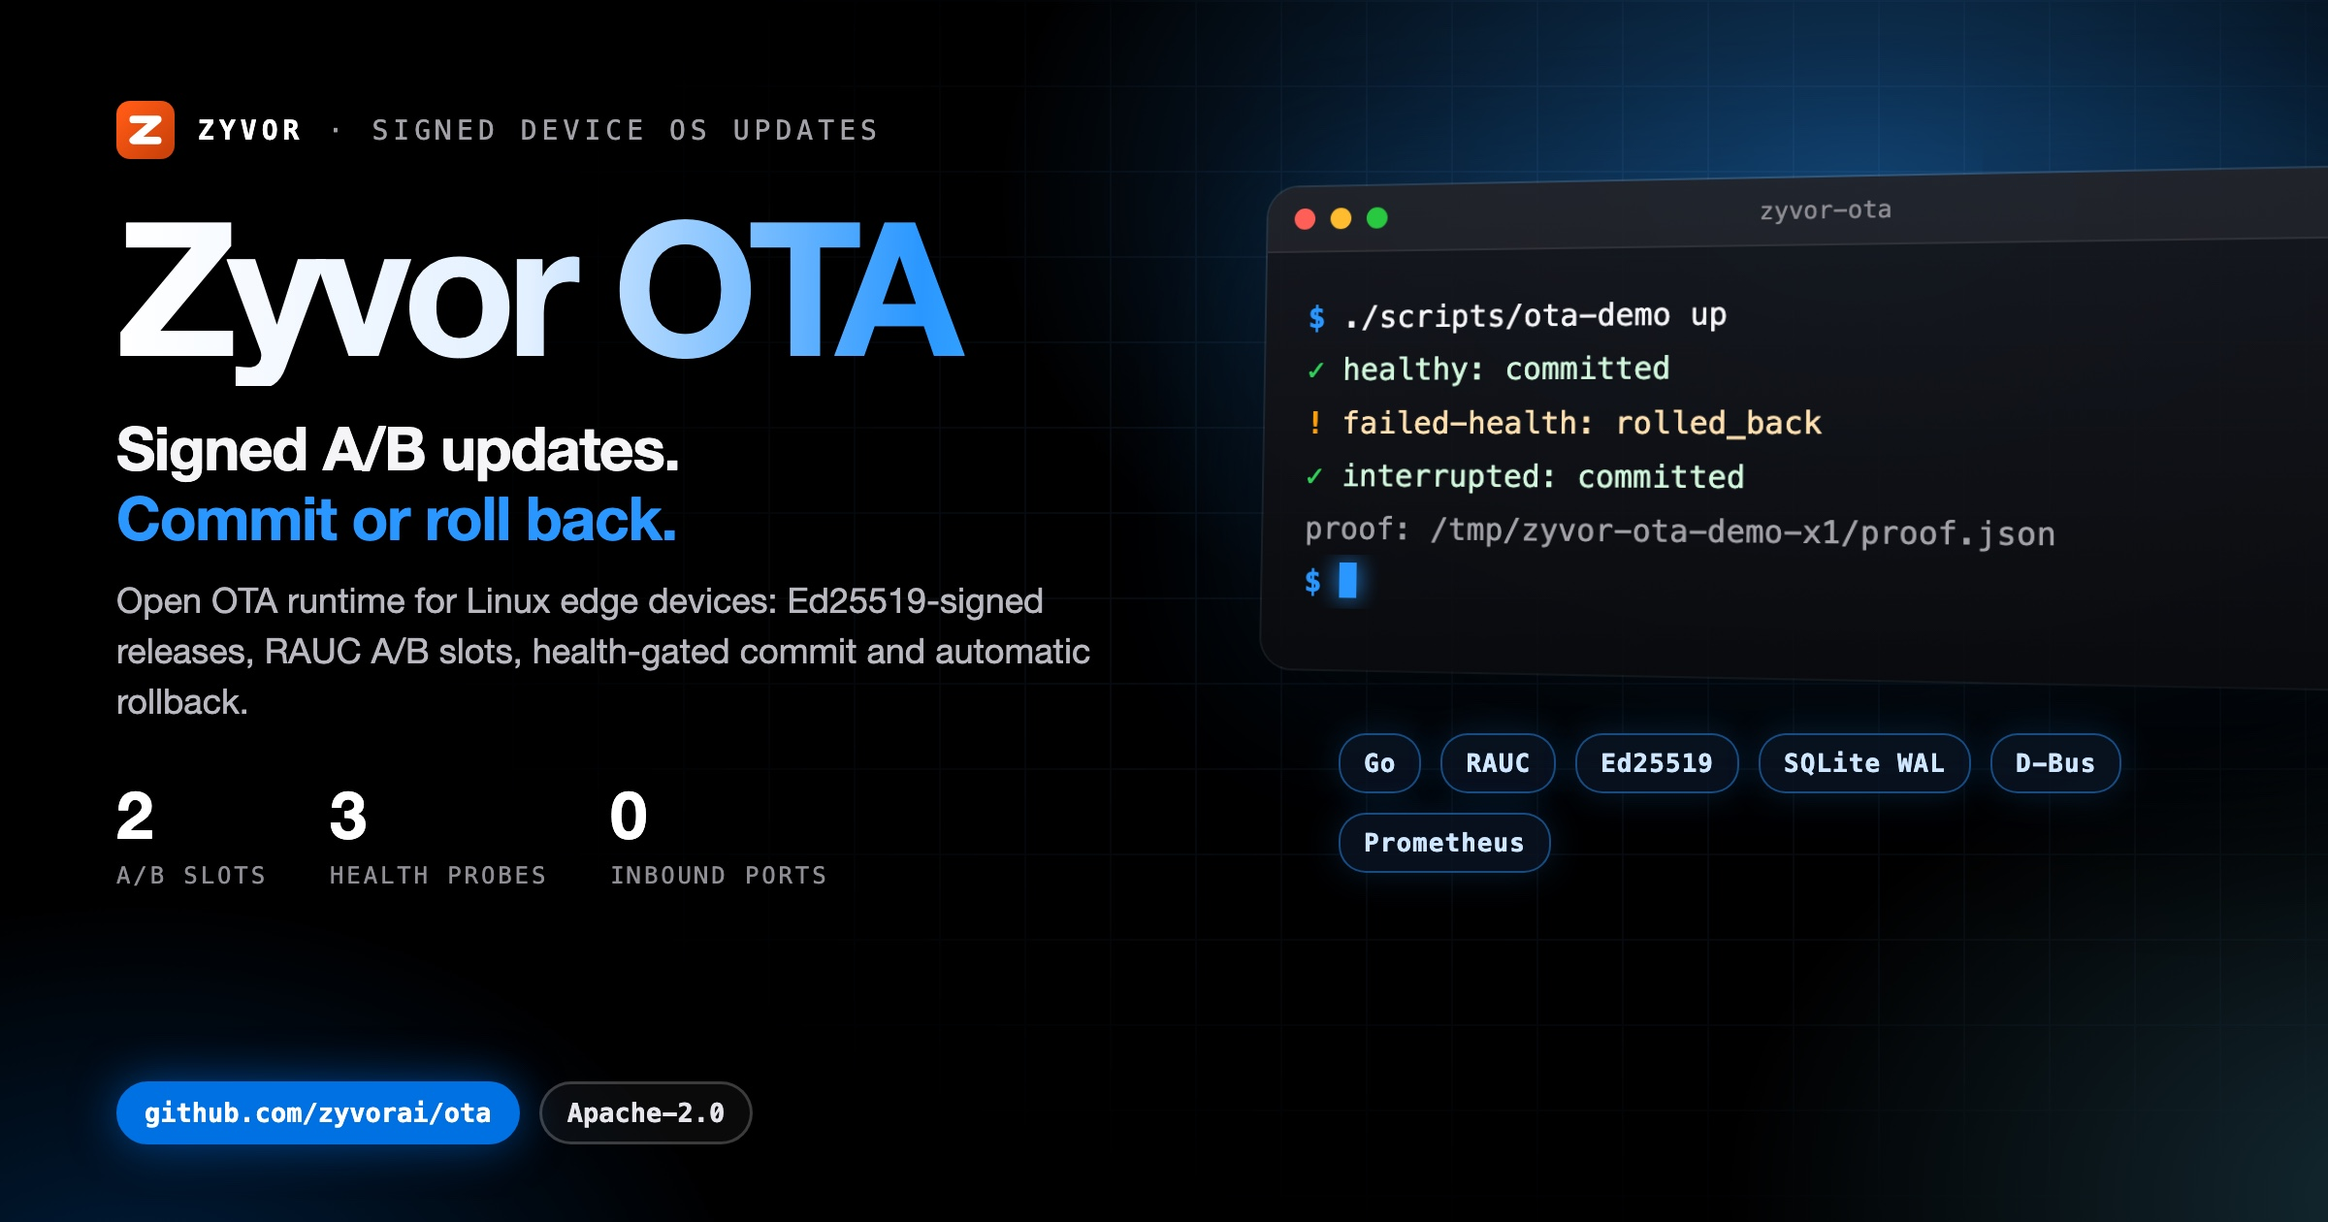
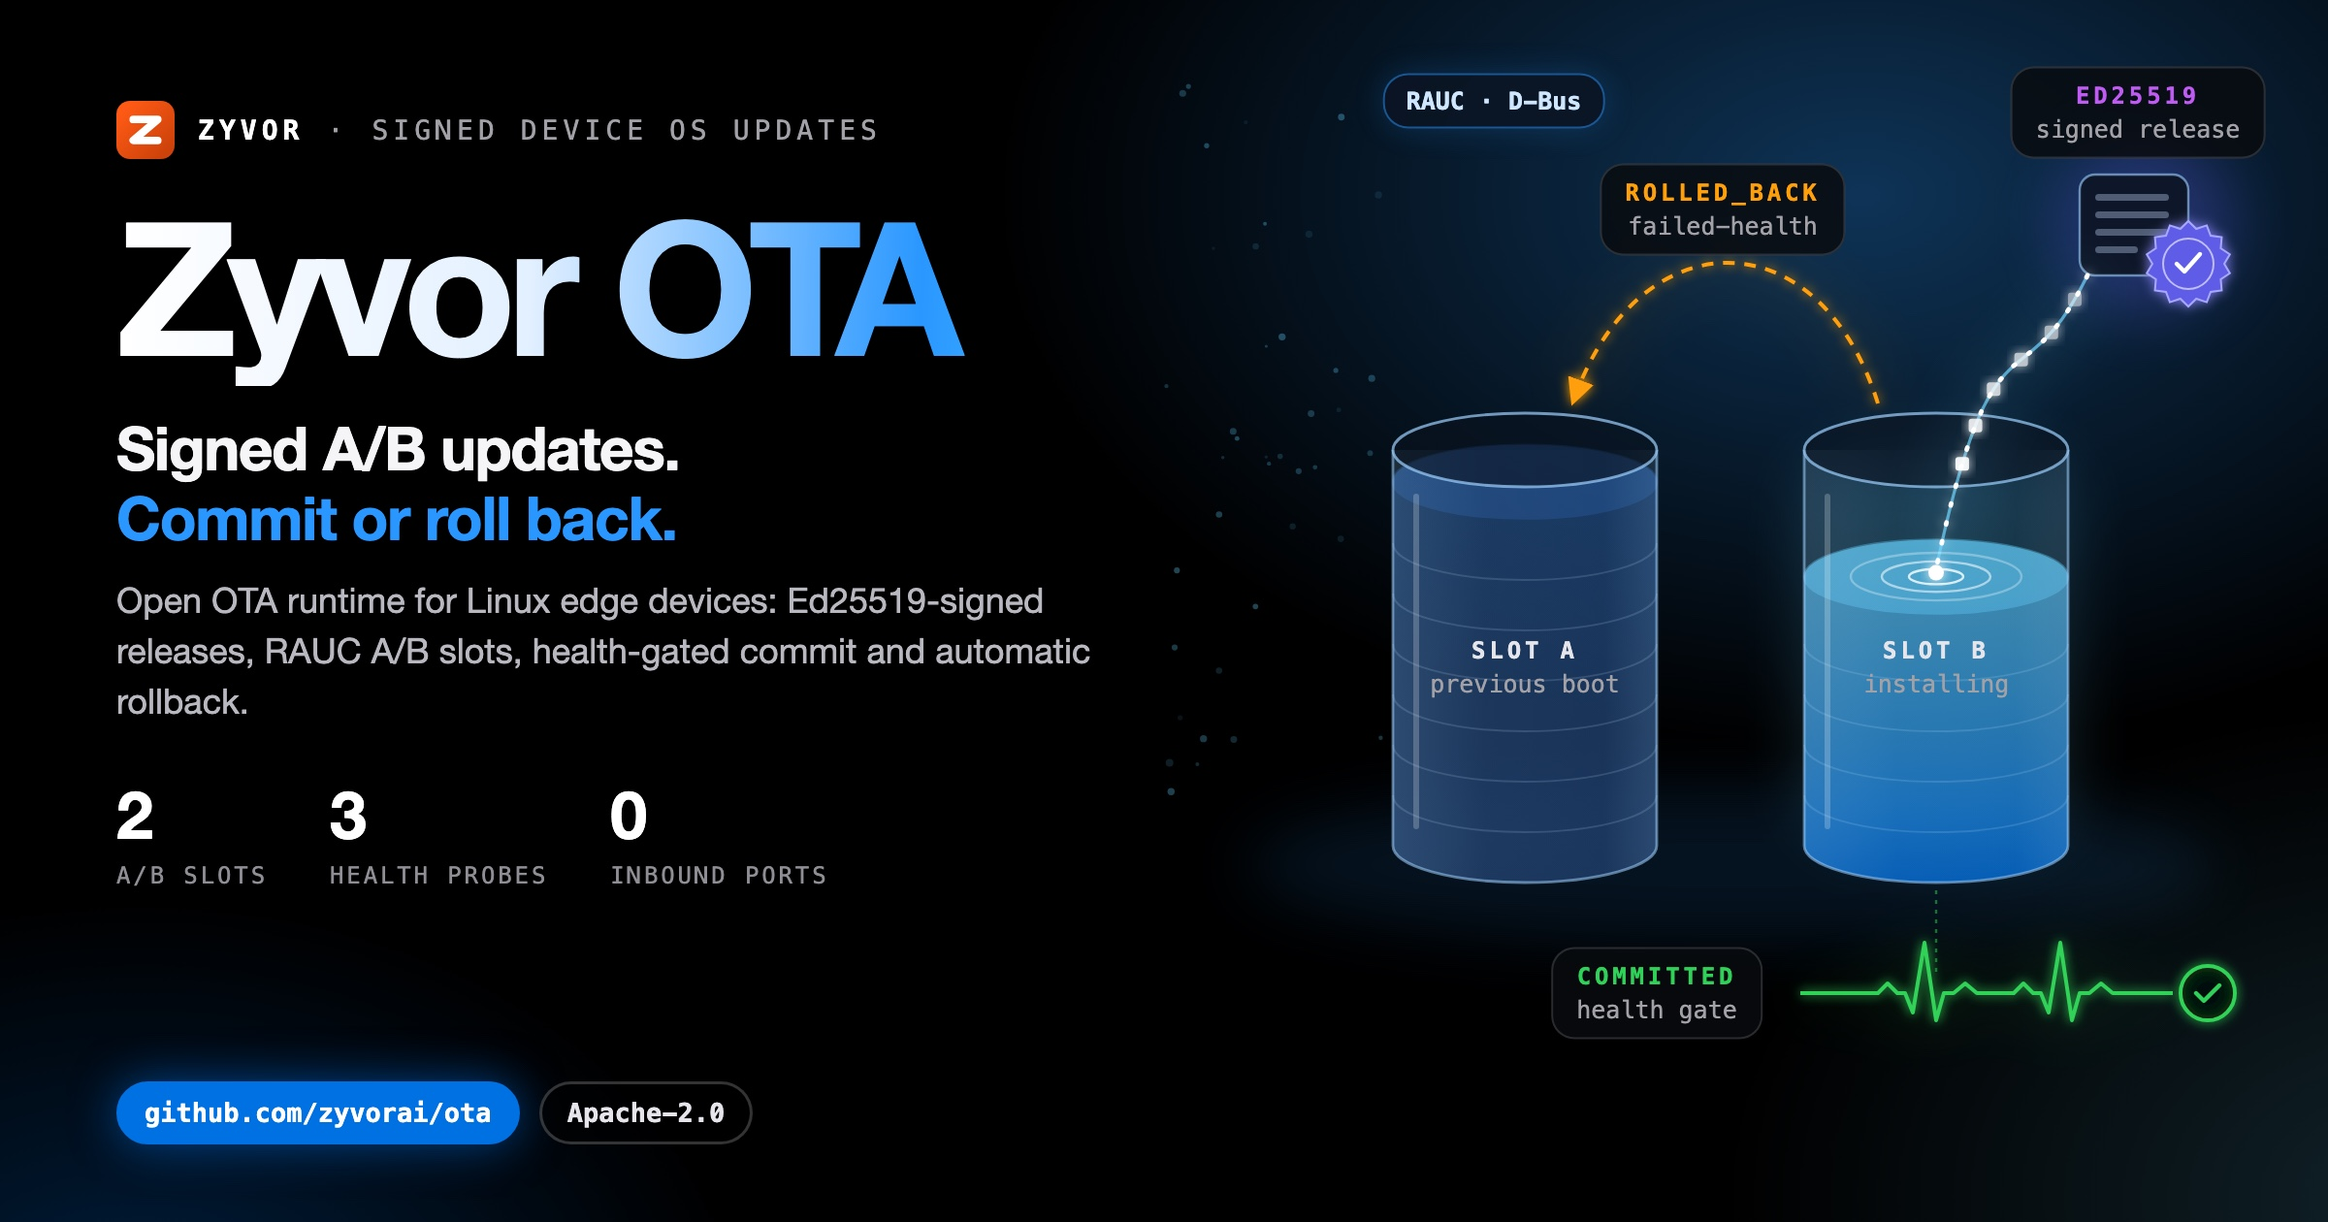
docs(social): unique illustrated hero card
Replace the shared terminal-window art with a motif drawn for this project;
same verified copy and stats on the left.

Changed region(s): [[0.5312, 0.031, 1.0, 0.8357]]

diff --git a/docs/social/ota-hero-dark.html b/docs/social/ota-hero-dark.html
@@ -8,58 +8,47 @@
   Build: ./docs/social/build-hero-dark.sh  ->  ota-hero-dark.jpg (2400x1260)
 -->
 <style>
-  :root { --blue:#0071e3; --signal:#2997ff; --cyan:#64d2ff; --green:#30d158; --amber:#ff9f0a;
+  :root { --blue:#0071e3; --signal:#2997ff; --cyan:#64d2ff; --green:#30d158; --amber:#ff9f0a; --red:#ff453a; --violet:#bf5af2;
     --sans:'SF Pro Display','Helvetica Neue',Helvetica,Arial,sans-serif; --mono:'SF Mono',Menlo,Consolas,monospace; }
   * { box-sizing:border-box; }
   html,body { margin:0; padding:0; }
   body { width:1200px; height:630px; overflow:hidden; color:#f5f5f7; font-family:var(--sans); position:relative; background:#000; }
   .aurora { position:absolute; inset:0;
-    background:radial-gradient(720px 460px at 80% 16%, rgba(41,151,255,.40), transparent 62%),
-               radial-gradient(600px 420px at 104% 98%, rgba(100,210,255,.20), transparent 60%),
+    background:radial-gradient(720px 460px at 80% 16%, rgba(41,151,255,.34), transparent 62%),
+               radial-gradient(600px 420px at 104% 98%, rgba(100,210,255,.16), transparent 60%),
                radial-gradient(520px 380px at 6% 110%, rgba(0,113,227,.28), transparent 60%); }
-  .grid { position:absolute; inset:0; opacity:.09;
-    background-image:linear-gradient(rgba(120,180,255,.9) 1px,transparent 1px),linear-gradient(90deg,rgba(120,180,255,.9) 1px,transparent 1px);
-    background-size:44px 44px; -webkit-mask-image:radial-gradient(900px 520px at 72% 42%, #000 18%, transparent 75%); }
-  .left { position:absolute; left:60px; top:52px; width:560px; z-index:3; }
+  .copy { position:absolute; left:60px; top:52px; width:560px; z-index:3; }
   .brand { display:flex; align-items:center; gap:12px; font-family:var(--mono); font-size:14px; letter-spacing:.18em; text-transform:uppercase; color:#a1a1a6; }
   .brand b { color:#fff; }
   .word { margin:20px 0 0; font-size:96px; line-height:.95; font-weight:800; letter-spacing:-.05em; white-space:nowrap;
     background:linear-gradient(92deg,#fff 0%,#e3f0ff 38%,var(--signal) 74%,var(--cyan) 100%); -webkit-background-clip:text; background-clip:text; color:transparent; padding-bottom:6px; }
   .tag { margin:14px 0 0; font-size:31px; line-height:1.15; font-weight:700; letter-spacing:-.02em; }
   .tag em { font-style:normal; color:var(--signal); }
-  .lede { margin:12px 0 0; font-size:18px; line-height:1.45; color:#b8b8bf; width:520px; }
+  .lede { margin:12px 0 0; font-size:18px; line-height:1.45; color:#b8b8bf; width:520px; text-shadow:0 1px 12px #000; }
   .stats { margin-top:24px; display:flex; gap:32px; }
   .stat b { display:block; font-size:34px; font-weight:800; letter-spacing:-.03em; color:#fff; }
   .stat span { font-family:var(--mono); font-size:12px; letter-spacing:.12em; text-transform:uppercase; color:#8e8e93; }
   .pill { position:absolute; left:60px; bottom:40px; display:flex; gap:10px; z-index:3; }
-  .pill span { font-family:var(--mono); font-size:13.5px; font-weight:700; padding:7px 13px; border-radius:18px; border:1.5px solid rgba(255,255,255,.2); color:#e5e5ea; background:rgba(255,255,255,.04); }
+  .pill span { font-family:var(--mono); font-size:13.5px; font-weight:700; padding:7px 13px; border-radius:18px; border:1.5px solid rgba(255,255,255,.2); color:#e5e5ea; background:rgba(0,0,0,.6); }
   .pill span.b { background:var(--blue); border-color:var(--blue); color:#fff; box-shadow:0 0 24px rgba(0,113,227,.55); }
-
-  .right { position:absolute; left:652px; top:96px; width:560px; z-index:2; }
-  .win { position:relative; width:560px; border-radius:16px; overflow:hidden; z-index:2;
-    background:linear-gradient(180deg, rgba(22,24,30,.94), rgba(10,11,14,.96));
-    box-shadow:0 50px 100px rgba(0,0,0,.75), 0 0 0 1px rgba(255,255,255,.14), 0 0 90px rgba(41,151,255,.22);
-    transform:perspective(1600px) rotateY(-14deg) rotateX(4deg); transform-origin:left center; }
-  .bar { height:34px; display:flex; align-items:center; gap:8px; padding:0 14px; background:rgba(255,255,255,.05); border-bottom:1px solid rgba(255,255,255,.07); }
-  .bar i { width:11px; height:11px; border-radius:50%; background:#ff5f57; } .bar i:nth-child(2){background:#febc2e} .bar i:nth-child(3){background:#28c840}
-  .bar em { margin-left:auto; margin-right:auto; font-style:normal; font-family:var(--mono); font-size:12px; color:#8e8e93; transform:translateX(-24px); }
-  .term { min-height:214px; padding:20px 22px 24px; font-family:var(--mono); font-size:15.5px; line-height:1.75; }
-  .l { white-space:pre; overflow:hidden; text-overflow:ellipsis; color:#f5f5f7; }
-  .l .p { color:var(--signal); font-weight:700; }
-  .l.out { color:#a1a1a6; }
-  .l.cm { color:#6e6e73; }
-  .l.ok { color:#d1f7dc; } .l.ok span { color:var(--green); font-weight:700; }
-  .l.warn { color:#ffe1b0; } .l.warn span { color:var(--amber); font-weight:700; }
-  .cur { display:inline-block; width:9px; height:18px; background:var(--signal); vertical-align:-3px; box-shadow:0 0 12px var(--signal); }
-  .chips { margin:34px 0 0 38px; width:480px; display:flex; flex-wrap:wrap; gap:10px; position:relative; z-index:3; }
-  .chips span { font-family:var(--mono); font-size:13px; font-weight:700; letter-spacing:.04em; padding:7px 12px; border-radius:14px;
-    color:#cfe6ff; background:rgba(10,20,35,.82); border:1px solid rgba(41,151,255,.45); box-shadow:0 0 18px rgba(41,151,255,.18); }
+  .art { position:absolute; left:520px; top:0; width:680px; height:630px; z-index:2; }
+  .art svg { display:block; }
+  #labels { position:absolute; inset:0; z-index:4; pointer-events:none; }
+  .lbl { position:absolute; font-family:var(--mono); font-size:12.5px; color:#a1a1a6; text-align:center; transform:translate(-50%,-50%); white-space:nowrap; }
+  .lbl b { display:block; font-size:12px; letter-spacing:.16em; text-transform:uppercase; color:#e5e5ea; }
+  .lbl span { display:block; margin-top:3px; }
+  .lbl.box { padding:7px 12px; border-radius:12px; background:rgba(8,10,14,.85); border:1px solid rgba(255,255,255,.14); }
+  .lbl.chip { padding:6px 11px; border-radius:13px; font-size:12.5px; font-weight:700; color:#cfe6ff; background:rgba(10,20,35,.85); border:1px solid rgba(41,151,255,.5); box-shadow:0 0 16px rgba(41,151,255,.2); }
+  .lbl.left { transform:translate(0,-50%); text-align:left; }
+  .lbl.right { transform:translate(-100%,-50%); text-align:right; }
+  .ok { color:var(--green) !important; } .warn { color:var(--amber) !important; } .bad { color:var(--red) !important; } .sig { color:var(--signal) !important; } .cy { color:var(--cyan) !important; } .vi { color:var(--violet) !important; }
 </style>
 </head>
 <body>
 <div class="aurora"></div>
-<div class="grid"></div>
-<div class="left">
+<div class="art"><svg id="art" width="680" height="630" viewBox="0 0 680 630" xmlns="http://www.w3.org/2000/svg"></svg></div>
+<div id="labels"></div>
+<div class="copy">
   <div class="brand"><svg viewBox="0 0 64 64" width="30" height="30" aria-hidden="true"><defs><linearGradient id="zb" x1="8" y1="8" x2="56" y2="56" gradientUnits="userSpaceOnUse"><stop offset="0" stop-color="#ff5a15"/><stop offset="1" stop-color="#cc420a"/></linearGradient></defs><rect width="64" height="64" rx="15" fill="url(#zb)"/><path d="M18.5,20.5 45.5,20.5 18.5,43.5 45.5,43.5" fill="none" stroke="#fff" stroke-width="8.3" stroke-linecap="round" stroke-linejoin="round"/></svg><b>Zyvor</b><span>&middot;</span><span>Signed device OS updates</span></div>
   <div class="word">Zyvor OTA</div>
   <div class="tag">Signed A/B updates.<br><em>Commit or roll back.</em></div>
@@ -67,8 +56,96 @@
   <div class="stats"><div class="stat"><b>2</b><span>A/B slots</span></div><div class="stat"><b>3</b><span>health probes</span></div><div class="stat"><b>0</b><span>inbound ports</span></div></div>
 </div>
 <div class="pill"><span class="b">github.com/zyvorai/ota</span><span>Apache-2.0</span></div>
-<div class="right"><div class="win"><div class="bar"><i></i><i></i><i></i><em>zyvor-ota</em></div>
-<div class="term"><div class="l"><span class="p">$</span> ./scripts/ota-demo up</div><div class="l ok"><span>&#10003;</span> healthy: committed</div><div class="l warn"><span>!</span> failed-health: rolled_back</div><div class="l ok"><span>&#10003;</span> interrupted: committed</div><div class="l out">proof: /tmp/zyvor-ota-demo-x1/proof.json</div><div class="l"><span class="p">$</span> <i class="cur"></i></div></div></div>
-<div class="chips"><span>Go</span><span>RAUC</span><span>Ed25519</span><span>SQLite WAL</span><span>D-Bus</span><span>Prometheus</span></div></div>
+<script>
+var Z = (function () {
+  var NS = 'http://www.w3.org/2000/svg', svg = document.getElementById('art'), labels = document.getElementById('labels');
+  var seed = 20261004;
+  function rnd() { seed = (seed * 1103515245 + 12345) % 2147483648; return seed / 2147483648; }
+  function el(tag, a, parent) { var n = document.createElementNS(NS, tag); for (var k in a) n.setAttribute(k, a[k]); (parent || svg).appendChild(n); return n; }
+  function g(attrs) { return el('g', attrs || {}); }
+  function label(x, y, inner, cls, style) { var d = document.createElement('div'); d.className = 'lbl ' + (cls || ''); d.style.left = (520 + x) + 'px'; d.style.top = y + 'px'; if (style) d.setAttribute('style', d.getAttribute('style') + ';' + style); d.innerHTML = inner; labels.appendChild(d); return d; }
+  return { NS: NS, svg: svg, W: 680, H: 630, rnd: rnd, el: el, g: g, label: label,
+    reseed: function (s) { seed = s; },
+    c: { blue: '#0071e3', signal: '#2997ff', cyan: '#64d2ff', green: '#30d158', amber: '#ff9f0a', red: '#ff453a', violet: '#bf5af2', teal: '#40c8e0', indigo: '#5e5ce6', pink: '#ff375f', white: '#f5f5f7', grey: '#8e8e93' } };
+})();
+(function () {
+// Zyvor OTA: A/B slots. An Ed25519-sealed release streams into inactive slot B, a heartbeat runs the
+// health gate, and an amber rollback arc returns to slot A.
+var C = Z.c, AX = 266, BX = 478, TY = 232, BY = 436, RX = 68, RY = 19;
+var d = Z.el('defs', {});
+d.innerHTML = '<filter id="otgl" x="-50%" y="-50%" width="200%" height="200%"><feGaussianBlur stdDeviation="3" result="b"/><feMerge><feMergeNode in="b"/><feMergeNode in="SourceGraphic"/></feMerge></filter>' +
+  '<filter id="otsf" x="-80%" y="-80%" width="260%" height="260%"><feGaussianBlur stdDeviation="16"/></filter>' +
+  '<linearGradient id="otglass" x1="0" y1="0" x2="1" y2="0"><stop offset="0" stop-color="#9fd4ff" stop-opacity=".16"/><stop offset=".35" stop-color="#9fd4ff" stop-opacity=".04"/><stop offset=".8" stop-color="#9fd4ff" stop-opacity=".02"/><stop offset="1" stop-color="#9fd4ff" stop-opacity=".14"/></linearGradient>' +
+  '<linearGradient id="otfillB" x1="0" y1="1" x2="0" y2="0"><stop offset="0" stop-color="#0071e3" stop-opacity=".75"/><stop offset="1" stop-color="#64d2ff" stop-opacity=".55"/></linearGradient>' +
+  '<linearGradient id="otfillA" x1="0" y1="1" x2="0" y2="0"><stop offset="0" stop-color="#1d3a66" stop-opacity=".8"/><stop offset="1" stop-color="#2a5fa8" stop-opacity=".45"/></linearGradient>' +
+  '<marker id="otarrow" viewBox="0 0 10 10" refX="6" refY="5" markerWidth="7" markerHeight="7" orient="auto"><path d="M0,0 L10,5 L0,10 z" fill="#ff9f0a"/></marker>';
+
+// faint texture
+for (var k = 0; k < 40; k++) Z.el('circle', { cx: 80 + Z.rnd() * 120, cy: 40 + Z.rnd() * 380, r: .8 + Z.rnd() * 1.2, fill: C.cyan, opacity: (.08 + Z.rnd() * .25).toFixed(2) });
+Z.el('ellipse', { cx: (AX + BX) / 2, cy: BY + 10, rx: 250, ry: 40, fill: C.signal, opacity: .12, filter: 'url(#otsf)' });
+
+function cyl(cx, level, fillId, accent, glow) {
+  var h = BY - TY, ly = BY - h * level;
+  if (glow) Z.el('rect', { x: cx - RX, y: TY, width: 2 * RX, height: h, rx: 30, fill: accent, opacity: .18, filter: 'url(#otsf)' });
+  // fill
+  Z.el('path', { d: 'M' + (cx - RX) + ',' + ly + ' V' + BY + ' A' + RX + ',' + RY + ' 0 0 0 ' + (cx + RX) + ',' + BY + ' V' + ly + ' A' + RX + ',' + RY + ' 0 0 0 ' + (cx - RX) + ',' + ly + 'Z', fill: 'url(#' + fillId + ')' });
+  Z.el('ellipse', { cx: cx, cy: ly, rx: RX, ry: RY, fill: accent, opacity: .35, stroke: accent, 'stroke-width': 1.2 });
+  // layer lines
+  for (var y = BY - 26; y > ly + 10; y -= 26) Z.el('path', { d: 'M' + (cx - RX) + ',' + y + ' A' + RX + ',' + RY + ' 0 0 0 ' + (cx + RX) + ',' + y, fill: 'none', stroke: 'rgba(200,230,255,.16)' });
+  // glass
+  Z.el('path', { d: 'M' + (cx - RX) + ',' + TY + ' V' + BY + ' A' + RX + ',' + RY + ' 0 0 0 ' + (cx + RX) + ',' + BY + ' V' + TY, fill: 'url(#otglass)', stroke: 'rgba(160,210,255,.55)', 'stroke-width': 1.4 });
+  Z.el('ellipse', { cx: cx, cy: TY, rx: RX, ry: RY, fill: 'rgba(10,18,32,.6)', stroke: 'rgba(160,210,255,.7)', 'stroke-width': 1.4 });
+  Z.el('line', { x1: cx - RX + 12, y1: TY + 24, x2: cx - RX + 12, y2: BY - 10, stroke: 'rgba(255,255,255,.22)', 'stroke-width': 3, 'stroke-linecap': 'round' });
+}
+cyl(AX, 0.92, 'otfillA', '#2a5fa8', false);
+cyl(BX, 0.68, 'otfillB', C.cyan, true);
+
+// signed release + seal (top right)
+var SX = 586, SY = 116;
+Z.el('circle', { cx: SX, cy: SY, r: 46, fill: C.indigo, opacity: .3, filter: 'url(#otsf)' });
+Z.el('rect', { x: SX - 34, y: SY - 26, width: 56, height: 52, rx: 8, fill: 'rgba(14,22,38,.95)', stroke: 'rgba(160,210,255,.6)', 'stroke-width': 1.2 });
+for (var l = 0; l < 4; l++) Z.el('rect', { x: SX - 26, y: SY - 16 + l * 9, width: l === 3 ? 22 : 38, height: 3.5, rx: 1.75, fill: 'rgba(200,220,255,.35)' });
+var sp = '', n = 28, sr = 22, scx = SX + 22, scy = SY + 20;
+for (var i = 0; i < n; i++) { var a = i / n * Math.PI * 2, r = i % 2 ? sr : sr - 3.5; sp += (i ? ' L' : 'M') + (scx + r * Math.cos(a)).toFixed(1) + ',' + (scy + r * Math.sin(a)).toFixed(1); }
+Z.el('path', { d: sp + 'Z', fill: C.indigo, stroke: '#a9a8ff', 'stroke-width': 1, filter: 'url(#otgl)' });
+Z.el('circle', { cx: scx, cy: scy, r: 13, fill: 'none', stroke: 'rgba(255,255,255,.6)', 'stroke-width': 1 });
+Z.el('path', { d: 'M' + (scx - 6) + ',' + scy + ' l4,4 l8,-9', fill: 'none', stroke: '#fff', 'stroke-width': 2.2, 'stroke-linecap': 'round', 'stroke-linejoin': 'round' });
+
+// release stream into slot B, pouring onto its fill surface
+var LY = BY - (BY - TY) * 0.68;
+var streamD = 'M' + (SX - 30) + ',' + (SY + 26) + ' C' + (SX - 64) + ',' + (SY + 96) + ' ' + (BX + 30) + ',' + (TY - 80) + ' ' + BX + ',' + (LY - 4);
+Z.el('path', { d: streamD, fill: 'none', stroke: C.cyan, 'stroke-width': 12, opacity: .2, filter: 'url(#otsf)' });
+Z.el('path', { d: streamD, fill: 'none', stroke: C.cyan, 'stroke-width': 1.6, opacity: .7 });
+var st = Z.el('path', { d: streamD, fill: 'none', stroke: '#fff', 'stroke-width': 2.4, 'stroke-dasharray': '1 9', 'stroke-linecap': 'round', filter: 'url(#otgl)' });
+var SL = st.getTotalLength();
+for (var k = 0; k < 6; k++) { var q = st.getPointAtLength(SL * (0.08 + k * 0.12)); Z.el('rect', { x: q.x - 3.5, y: q.y - 3.5, width: 7, height: 7, rx: 1.5, fill: '#fff', opacity: (.55 + k * .08).toFixed(2), filter: 'url(#otgl)' }); }
+[14, 28, 44].forEach(function (r, n) { Z.el('ellipse', { cx: BX, cy: LY, rx: r, ry: r * RY / RX, fill: 'none', stroke: '#fff', 'stroke-width': 1.2, opacity: (.8 - n * .25).toFixed(2) }); });
+Z.el('circle', { cx: BX, cy: LY - 2, r: 4, fill: '#fff', filter: 'url(#otgl)' });
+
+// rollback arc B -> A
+var rb = 'M' + (BX - 30) + ',' + (TY - 24) + ' C' + (BX - 60) + ',' + (TY - 120) + ' ' + (AX + 60) + ',' + (TY - 120) + ' ' + (AX + 26) + ',' + (TY - 28);
+Z.el('path', { d: rb, fill: 'none', stroke: C.amber, 'stroke-width': 8, opacity: .14, filter: 'url(#otsf)' });
+Z.el('path', { d: rb, fill: 'none', stroke: C.amber, 'stroke-width': 2, 'stroke-dasharray': '6 5', 'marker-end': 'url(#otarrow)', filter: 'url(#otgl)' });
+
+// health-gate heartbeat under slot B
+var HY = 512, hx0 = BX - 70, hx1 = 600;
+Z.el('line', { x1: BX, y1: BY + RY + 4, x2: BX, y2: HY - 10, stroke: 'rgba(48,209,88,.5)', 'stroke-width': 1.2, 'stroke-dasharray': '2 3' });
+var ecg = 'M' + hx0 + ',' + HY;
+[hx0 + 40, hx0 + 110].forEach(function (b) { ecg += ' H' + b + ' l5,-5 l5,5 l4,0 l4,10 l6,-36 l6,40 l4,-14 l5,0 l6,-5 l6,5'; });
+ecg += ' H' + hx1;
+Z.el('path', { d: ecg, fill: 'none', stroke: C.green, 'stroke-width': 6, opacity: .18, filter: 'url(#otsf)' });
+Z.el('path', { d: ecg, fill: 'none', stroke: C.green, 'stroke-width': 2, 'stroke-linejoin': 'round', filter: 'url(#otgl)' });
+Z.el('circle', { cx: hx1 + 18, cy: HY, r: 14, fill: 'rgba(6,18,10,.9)', stroke: C.green, 'stroke-width': 2, filter: 'url(#otgl)' });
+Z.el('path', { d: 'M' + (hx1 + 12) + ',' + HY + ' l4,4 l8,-8', fill: 'none', stroke: C.green, 'stroke-width': 2.2, 'stroke-linecap': 'round', 'stroke-linejoin': 'round' });
+
+// labels
+Z.label(AX, (TY + BY) / 2 + 10, '<b>slot A</b><span>previous boot</span>');
+Z.label(BX, (TY + BY) / 2 + 10, '<b>slot B</b><span>installing</span>');
+Z.label(SX - 4, SY - 58, '<b class="vi">Ed25519</b><span>signed release</span>', 'box');
+Z.label((AX + BX) / 2 - 4, TY - 124, '<b class="warn">rolled_back</b><span>failed-health</span>', 'box');
+Z.label(hx0 - 74, HY, '<b class="ok">committed</b><span>health gate</span>', 'box');
+Z.label(250, 52, 'RAUC &middot; D-Bus', 'chip');
+})();
+</script>
 </body>
 </html>
